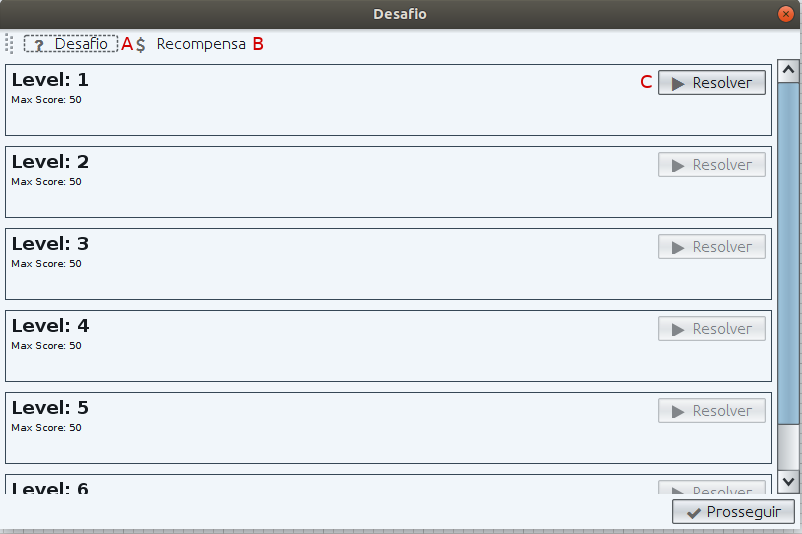
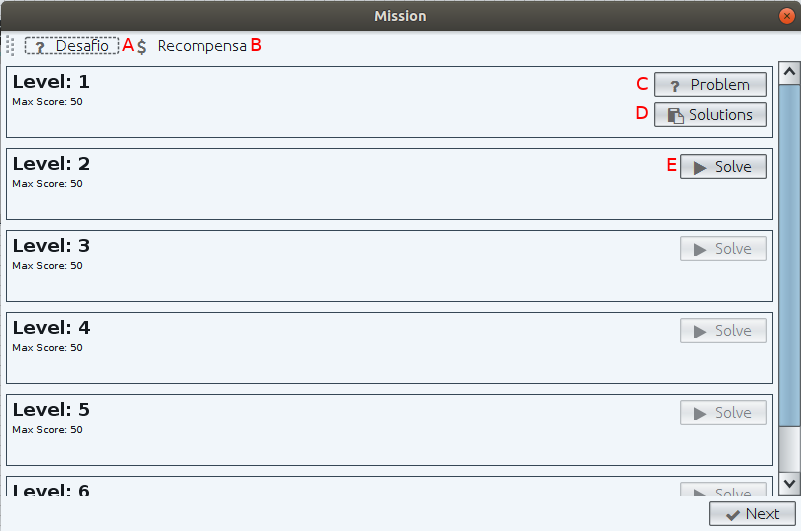
Documentação das janelas da ferramenta

Changed region(s): [[0.0, 0.0, 1.0, 1.0]]

diff --git a/abntex2-modelo-trabalho-academico.tex b/abntex2-modelo-trabalho-academico.tex
@@ -1663,7 +1663,7 @@ A linguagem Java possui em sua arquitetura uma API para execução de \textit{sc
 
 O processamento digital de imagens é um área de estudo que possui forte embasamento teórico. Em muitas situações, o material teórico é constituído basicamente de notações matemáticas, o que pode dificultar o entendimento dos estudante. Tendo em vista este cenário, foi construída uma área na ferramenta que possibilita ao estudante o contato com o referencial teórico de técnicas de PDI através de uma apresentação mais didática.
 
-Para a construção do material teórico disponível na ferramenta, foi utilizado como base a pesquisa apresentada no Capitulo \ref{sec:pdi}. Este material consiste basicamente de uma explicação conceitual de cada técnica de PDI e o funcionamento básico do algoritmo. Também é disponibilizado ao estudante o código fonte utilizado para a implementação do processo.
+Para a construção do deste material teórico, foi utilizado como base a pesquisa apresentada no Capitulo \ref{sec:pdi}. Este material consiste basicamente de uma explicação conceitual de cada técnica de PDI e o funcionamento básico do algoritmo. Também é disponibilizado ao estudante o código fonte utilizado para a implementação do processo.
 
 Para facilitar a disponibilização do material teórico, foi utilizado um arquivo no formato \textit{Markdown}. Este formato possibilita a fácil edição e formação de conteúdo a partir de \textit{tags} que são adicionadas em um arquivo de texto.
 
@@ -1719,9 +1719,11 @@ Nós próximos tópicos são apresentadas as interfaces que o aluno possui acess
 
 \subsection{Desafios e missões}
 
+O sistema gamificado é baseado em desafios e missões, onde o usuário recebe recompensas e pontuações a partir da conclusão deste elementos. A Figura \ref{fig:visnodeDesafios} demonstra a paǵina onde os alunos pode acessar os desafios disponíveis na ferramenta. Na Tabela \ref{tab:listagemDesafios} é explicado cada elemento desta janela.
+
 \begin{figure}[H]
 \centering
-\caption{\textbf{Lista de desafios}}
+\caption{\textbf{Listagem de desafios}}
 \includegraphics[width=0.7\textwidth]{imagens/visnode_desafios.png}
 \sourceAuthor
 \label{fig:visnodeDesafios}
@@ -1740,23 +1742,17 @@ Nós próximos tópicos são apresentadas as interfaces que o aluno possui acess
 \sourceAuthor
 \end{table}
 
+Quando o aluno seleciona um desafio a ser resolvido, a próxima página exibida é a janela responsável pela contextualização do aluno ao desafio. A Figura \ref{fig:visnodeDesafiosNarrativa} demonstra um exemplo desta contextualização, podendo conter texto e imagens, deforma que facilite o entendimento do aluno em relação ao desafio proposto.
 
 \begin{figure}[H]
 \centering
-\caption{\textbf{Desafios narrativa}}
+\caption{\textbf{Narrativa de um desafio}}
 \includegraphics[width=0.7\textwidth]{imagens/visnode_desafios_narrativa.png}
 \sourceAuthor
 \label{fig:visnodeDesafiosNarrativa}
 \end{figure}
 
-\begin{figure}[H]
-\centering
-\caption{\textbf{Desafios recompensa}}
-\includegraphics[width=0.7\textwidth]{imagens/visnode_desafios_recompensa.png}
-\sourceAuthor
-\label{fig:visnodeDesafiosRecompensa}
-\end{figure}
-
+Após a apresentação da narrativa do desafio, o usuário é redirecionado para página que contém as missões do desafio, que é representada pela Figura \ref{fig:visnodeMissoes}. O aluno deverá resolver as missões em ordem, desta forma, a segunda missão não poderá ser resolvida antes que a missão 1 seja solucionada. Na Tabela \ref{tab:listagemMissoes} é explicado cada elemento desta janela.
 
 \begin{figure}[H]
 \centering
@@ -1766,7 +1762,6 @@ Nós próximos tópicos são apresentadas as interfaces que o aluno possui acess
 \label{fig:visnodeMissoes}
 \end{figure}
 
-
 \begin{table}[H]
 \captionof{table}{Elementos da listagem de missões} \label{tab:listagemMissoes}
 \begin{tabular}{c|l}
@@ -1775,24 +1770,22 @@ Nós próximos tópicos são apresentadas as interfaces que o aluno possui acess
 
 \begin{tabular}[c]{@{}c@{}}(B)\\ Recompensas \end{tabular}                     & \begin{tabular}[c]{@{}l@{}}Tipo: Botão.\\ Descrição: Exibe as recompensas já adquiridas.\end{tabular}\\ \hline
 
-\begin{tabular}[c]{@{}c@{}}(B)\\ Resolver \end{tabular}                     & \begin{tabular}[c]{@{}l@{}}Tipo: Botão.\\ Descrição: Inicia a resolução de desafios.\end{tabular}\\ \hline
+\begin{tabular}[c]{@{}c@{}}(C)\\ Problema \end{tabular}                     & \begin{tabular}[c]{@{}l@{}}Tipo: Botão.\\ Descrição: Exibe a narrativa da missão.\end{tabular}\\ \hline
+
+\begin{tabular}[c]{@{}c@{}}(D)\\ Resolver \end{tabular}                     & \begin{tabular}[c]{@{}l@{}}Tipo: Botão.\\ Descrição: Exibe soluções de outros usuários.\end{tabular}\\ \hline
+
+\begin{tabular}[c]{@{}c@{}}(E)\\ Resolver \end{tabular}                     & \begin{tabular}[c]{@{}l@{}}Tipo: Botão.\\ Descrição: Inicia a resolução de desafios.\end{tabular}\\ \hline
 
 \end{tabular}
 \centering
 \sourceAuthor
 \end{table}
 
-\begin{figure}[H]
-\centering
-\caption{\textbf{Missões Narrativa}}
-\includegraphics[width=0.7\textwidth]{imagens/visnode_missao_narrativa.png}
-\sourceAuthor
-\label{fig:visnodeMissaoNarrativa}
-\end{figure}
+Nesta mesma página, também é possível que o usuário visualize outras soluções para as missões. Este recurso possibilita que os alunos possam aprender novos forma de solucionar um mesmo desafios. Para que o aluno não copie outras soluções, este recuso somente esta disponível após a conclusão da missão. Esta página é demonstrada na Figura \ref{fig:visnodeMissaoSolucoes}. 
 
 \begin{figure}[H]
 \centering
-\caption{\textbf{Missões Soluções}}
+\caption{\textbf{Soluções de Missões}}
 \includegraphics[width=0.7\textwidth]{imagens/visnode_missoes_solucoes.png}
 \sourceAuthor
 \label{fig:visnodeMissaoSolucoes}
@@ -1802,7 +1795,7 @@ Nós próximos tópicos são apresentadas as interfaces que o aluno possui acess
 \captionof{table}{Elementos da listagem de missões concluídas} \label{tab:listagemMissoesConcluidas}
 \begin{tabular}{c|l}
 \hline
-\begin{tabular}[c]{@{}c@{}}(A)\\ XP\end{tabular}                          & \begin{tabular}[c]{@{}l@{}}Tipo: Texto.\\ Descrição: Pontuação ganha com a resolução da missão .\end{tabular} \\ \hline
+\begin{tabular}[c]{@{}c@{}}(A)\\ XP\end{tabular}                          & \begin{tabular}[c]{@{}l@{}}Tipo: Texto.\\ Descrição: Pontuação ganha com a resolução da missão. \end{tabular} \\ \hline
 
 \begin{tabular}[c]{@{}c@{}}(B)\\ Data da resolução \end{tabular}                     & \begin{tabular}[c]{@{}l@{}}Tipo: Texto.\\ Descrição: Data em que a missão foi submetida.\end{tabular}\\ \hline
 
@@ -1813,7 +1806,62 @@ Nós próximos tópicos são apresentadas as interfaces que o aluno possui acess
 \sourceAuthor
 \end{table}
 
+Para cada desafio é relacionado uma recompensa, que será adquirida pelo aluno ao final do desafio. As recompensas da ferramenta são imagens, como demonstrando na Figura \ref{fig:visnodeDesafiosRecompensa}. Com o objetivo de transmitir uma ideia de progresso, esta imagem foi dividida em várias partes e em cada conclusão de missão, uma parte da imagem é concedida ao aluno.
+
+\begin{figure}[H]
+\centering
+\caption{\textbf{Desafios recompensa}}
+\includegraphics[width=0.7\textwidth]{imagens/visnode_desafios_recompensa.png}
+\sourceAuthor
+\label{fig:visnodeDesafiosRecompensa}
+\end{figure}
+
+Assim que o aluno seleciona uma missão, a contextualização desta missão é apresentada. Este recurso é demonstrado na Figura \ref{fig:visnodeMissaoNarrativa}.
+
+\begin{figure}[H]
+\centering
+\caption{\textbf{Narrativa de uma missão}}
+\includegraphics[width=0.7\textwidth]{imagens/visnode_missao_narrativa.png}
+\sourceAuthor
+\label{fig:visnodeMissaoNarrativa}
+\end{figure}
+
+A Figura \ref{fig:visnodeDesktop} demonstra a resolução de uma missão utilizando a ferramenta VISNode. Na Tabela \ref{tab:visnodeDesktop} é apresentado as funcionalidade desta tarefa.
+
+\begin{figure}[H]
+\centering
+\caption{\textbf{Resolução da missão pelo VISNode}}
+\includegraphics[width=0.7\textwidth]{imagens/visnode_desktop.png}
+\sourceAuthor
+\label{fig:visnodeDesktop}
+\end{figure}
+
+
+\begin{figure}[H]
+\centering
+\caption{\textbf{Soluções de Missões}}
+\includegraphics[width=0.7\textwidth]{imagens/visnode_missoes_solucoes.png}
+\sourceAuthor
+\label{fig:visnodeMissaoSolucoes}
+\end{figure}
+
+\begin{table}[H]
+\captionof{table}{Elementos da resolução de missões} \label{tab:visnodeDesktop}
+\begin{tabular}{c|l}
+\hline
+\begin{tabular}[c]{@{}c@{}}(A)\\ Resolver\end{tabular}                          & \begin{tabular}[c]{@{}l@{}}Tipo: Botão.\\ Descrição: Submete missão para validação. \end{tabular} \\ \hline
+
+\begin{tabular}[c]{@{}c@{}}(B)\\ Narrativa \end{tabular}                     & \begin{tabular}[c]{@{}l@{}}Tipo: Botão.\\ Descrição: Exibe a narrativa da missão.\end{tabular}\\ \hline
+
+
+\end{tabular}
+\centering
+\sourceAuthor
+\end{table}
+
 \subsection{Ranking}
+
+A Figura \ref{fig:visnodeRanking} demonstra a página de visualização de \textit{ranking} de usuários. Este \textit{ranking} pode ser tando no âmbito geral, ou seja, todos os usuários da ferramenta, ou no âmbito de seu grupo, contendo somente os usuário do grupo do usuário. Caso o usuário possuam mais de um grupo, estes serão exibidos em formato de aba. Na Tabela \ref{tab:listagemMissoesConcluidas} é explicado cada elemento desta janela.
 
 \begin{figure}[H]
 \centering
@@ -1840,6 +1888,8 @@ Nós próximos tópicos são apresentadas as interfaces que o aluno possui acess
 
 \subsection{Conquistas}
 
+Para que o usuário visualize duas conquistas foi desenvolvido a página representada pela Figura \ref{fig:visnodeConquistas}. Nesta página, é possível visualizar todas as conquistas do usuário, mesmo que o desafio não esteja completo. Nestes casos, o usuário poderá visualizar o quanto do desafio foi concluído. Na Tabela \ref{tab:listagemMissoesConcluidas} é explicado cada elemento desta janela.
+
 \begin{figure}[H]
 \centering
 \caption{\textbf{Conquistas}}
@@ -1864,11 +1914,11 @@ Nós próximos tópicos são apresentadas as interfaces que o aluno possui acess
 
 \section{Interface do Professor}
 
-Nós próximos tópicos são apresentadas as interfaces que o aluno possui acesso. A partir delas, o professos pode criar e novos desafios e acompanhar o progresso dos alunos.
+Nós próximos tópicos são apresentadas as interfaces que o professor possui acesso. A partir delas, o educador pode criar e novos desafios e acompanhar o progresso de seus alunos.
 
 \subsection{Manutenção de Desafios}
 
-Com o intuito de possibilitar aos educadores um canal para a criação de novos desafios, foi desenvolvido na ferramentas funcionalidades com tal finalidade. As Figuras \ref{fig:visnodeCadastroDesafio} e \ref{fig:visnodeCadastroMissoes} demonstram tais funcionalidades. 
+Com o intuito de possibilitar aos educadores um canal para a criação de novos desafios, foi desenvolvido na ferramenta o cadastro de desafios e missões. As Figuras \ref{fig:visnodeCadastroDesafio} e \ref{fig:visnodeCadastroMissoes} demonstram tais funcionalidades. As Tabelas \ref{tab:manutencaoDesafios} e \ref{tab:manutencaoMissoes} demonstram os elementos destas janelas.
 
 \begin{figure}[H]
 \centering
@@ -1884,7 +1934,7 @@ Com o intuito de possibilitar aos educadores um canal para a criação de novos 
 \hline
 \begin{tabular}[c]{@{}c@{}}(A)\\ Nome\end{tabular}                          & \begin{tabular}[c]{@{}l@{}}Tipo: Texto.\\ Descrição: Nome de identificação do desafio.\end{tabular} \\ \hline
 
-\begin{tabular}[c]{@{}c@{}}(B)\\ Descrição\end{tabular}                     & \begin{tabular}[c]{@{}l@{}}Tipo: Texto.\\ Descrição: Descrição resumida do desafios.\end{tabular}\\ \hline
+\begin{tabular}[c]{@{}c@{}}(B)\\ Descrição\end{tabular}                     & \begin{tabular}[c]{@{}l@{}}Tipo: Texto.\\ Descrição: Descrição resumida do desafio.\end{tabular}\\ \hline
 
 \begin{tabular}[c]{@{}c@{}}(C)\\ Narrativa\end{tabular}                     & \begin{tabular}[c]{@{}l@{}}Tipo: Texto no formato \textit{Markdown}.\\ Descrição: Narrativa do desafio. 
 \\ É nesta sessão que é descrito o cenário do desafio.\end{tabular} \\ \hline
@@ -1912,7 +1962,7 @@ Com o intuito de possibilitar aos educadores um canal para a criação de novos 
 
 \begin{tabular}{c|l}
 \hline
-\begin{tabular}[c]{@{}c@{}}(A)\\ XP\end{tabular}                          & \begin{tabular}[c]{@{}l@{}}Tipo: Numérico.\\ Descrição: pontuação máxima da missão.\end{tabular} \\ \hline
+\begin{tabular}[c]{@{}c@{}}(A)\\ XP\end{tabular}                          & \begin{tabular}[c]{@{}l@{}}Tipo: Numérico.\\ Descrição: Pontuação máxima da missão.\end{tabular} \\ \hline
 
 \begin{tabular}[c]{@{}c@{}}(B)\\ Narrativa\end{tabular}                     & \begin{tabular}[c]{@{}l@{}}Tipo: Texto no formato \textit{Markdown}.\\ Descrição: Narrativa da missão. \end{tabular}\\ \hline
 
@@ -1933,7 +1983,7 @@ Com o intuito de possibilitar aos educadores um canal para a criação de novos 
 
 \subsection{Manutenção de grupos}
 
-Visando uma melhor organização dos usuários, a ferramenta VISNode possui uma funcionalidade para a criação de grupos de usuário. Este recurso possibilita que o educador possa acompanhar a evolução de uma determinada turma. A Figura \ref{fig:visnodeNovoGrupo} demonstra a janela pela qual o educador pode criar novos grupo e relacionar o respectivos usuários.
+Visando uma melhor organização dos usuários, a ferramenta VISNode possui uma funcionalidade para a criação de grupos de usuário. Este recurso possibilita que o educador possa acompanhar a evolução de uma determinada turma. A Figura \ref{fig:visnodeNovoGrupo} demonstra a janela pela qual o educador pode criar novos grupo e relacionar os respectivos usuários.
 
 \begin{figure}[H]
 \centering
@@ -1945,14 +1995,15 @@ Visando uma melhor organização dos usuários, a ferramenta VISNode possui uma 
 
 \subsection{Acompanhamento de usuários}
 
+Uma das funcionalidades da ferramenta é possibilitar ao educador um mecanismo que permita o acompanhamento do progresso dos estudantes. A Figura \ref{fig:visnodeUsuarios} demonstra uma página onde é possível visualizar a quantidade de pontos obtidos por cada usuário, além de visualizar suas conquistas e desafios concluídos. Este recurso permite que o educador abra a solução desenvolvida pelo estudante, possibilitando ao educador identificar as abordagem utilizadas pelos alunos nas resoluções dos desafios. Na Tabela \ref{tab:visnodeUsuarios} é explicado cada elemento desta janela.
+
 \begin{figure}[H]
 \centering
-\caption{\textbf{Cadastro de grupos}}
+\caption{\textbf{Acompanhamento de usuários}}
 \includegraphics[width=0.7\textwidth]{imagens/visnode_usuarios.png}
 \sourceAuthor
-\label{fig:visnodeNovoGrupo}
+\label{fig:visnodeUsuarios}
 \end{figure}
-
 
 \begin{table}[H]
 \centering
@@ -1960,7 +2011,7 @@ Visando uma melhor organização dos usuários, a ferramenta VISNode possui uma 
 
 \begin{tabular}{c|l}
 \hline
-\begin{tabular}[c]{@{}c@{}}(A)\\ Grupo\end{tabular}                          & \begin{tabular}[c]{@{}l@{}}Tipo: Combo-Box.\\ Descrição: Seleção de grupo filtro.\end{tabular} \\ \hline
+\begin{tabular}[c]{@{}c@{}}(A)\\ Grupo\end{tabular}                          & \begin{tabular}[c]{@{}l@{}}Tipo: Combo-Box.\\ Descrição: Seleção de grupo a ser filtrado.\end{tabular} \\ \hline
 
 \begin{tabular}[c]{@{}c@{}}(B)\\ Pesquisar\end{tabular}                     & \begin{tabular}[c]{@{}l@{}}Tipo: Botão.\\ Descrição: Pesquisa de usuários pelo grupo. \end{tabular}\\ \hline
 
